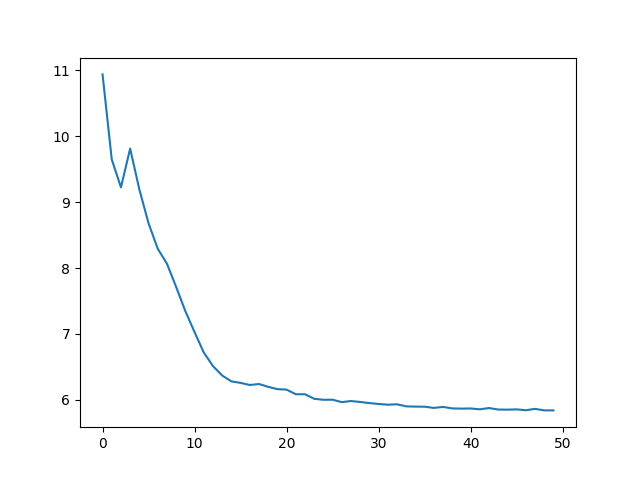
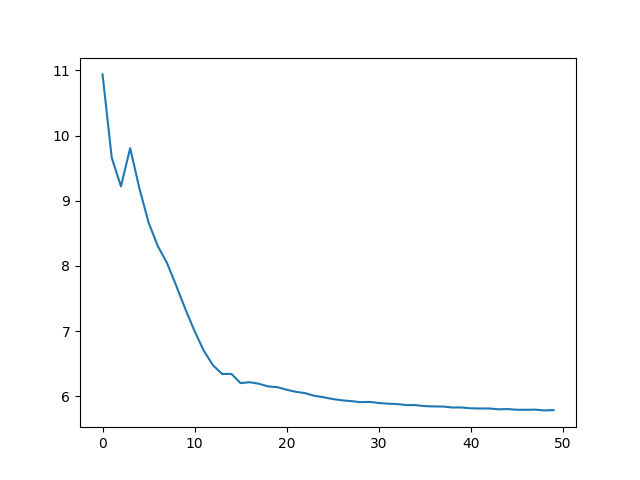
ddp works

diff --git a/train.py b/train.py
@@ -316,9 +316,11 @@ class GPT2(nn.Module):
 
 
 class DataLoaderLite:
-    def __init__(self, B, T):
+    def __init__(self, B, T, process_rank, num_processes):
         self.B = B  # batch size
         self.T = T  # context size
+        self.process_rank = process_rank
+        self.num_processes = num_processes
 
         with open("input.txt", "r") as f:
             text = f.read()
@@ -328,10 +330,11 @@ class DataLoaderLite:
 
         self.tokens = torch.tensor(tokens)
 
-        print(f"loaded {len(self.tokens)} tokens")
-        print(f"1 epoch = {len(self.tokens) // (B * T)} batches")
+        if process_rank == 0:
+          print(f"loaded {len(self.tokens)} tokens")
+          print(f"1 epoch = {len(self.tokens) // (B * T)} batches")
 
-        self.current_position = 0
+        self.current_position = self.B * self.T * self.process_rank
 
     def next_batch(self) -> tuple[torch.Tensor, torch.Tensor]:
         B, T = self.B, self.T
@@ -340,11 +343,11 @@ class DataLoaderLite:
         y = buf[1:].view(B, T)  # Targets
 
         # advance the position in the tensor
-        self.current_position += B * T
+        self.current_position += B * T * self.num_processes
         # if loading the next batch would be out of bounds, reset
-        if self.current_position + (B * T + 1) > len(self.tokens):
+        if self.current_position + (B * T * self.num_processes + 1) > len(self.tokens):
             # print("\n\t!!! Dataset Loop Completed !!!\n")
-            self.current_position = 0
+            self.current_position = self.B * self.T * self.process_rank
 
         assert x.size() == y.size() == (B, T), "Size mismatch"
 
@@ -370,20 +373,43 @@ def get_lr(it: int) -> float:
     return min_lr + coeff * (max_lr - min_lr)
 
 if __name__ == "__main__":
-    # Check if we have a GPU
-    device = "cpu"
-    if torch.cuda.is_available():
-        device = "cuda"
-    elif hasattr(torch.backends, "mps") and torch.backends.mps.is_available():
-        device = "mps"
-    print(f"using device: {device}")
-
-    # from torch.distributed import init_process_group, destroy_process_group
+    # DDP
+    from torch.distributed import init_process_group, destroy_process_group
+    from torch.nn.parallel import DistributedDataParallel as DDP
+    import torch.distributed as dist
 
     # set up DDP (distributed data parallel)
     # torchrun command sets the env variables RANK, LOCAL_RANK, and WORLD_SIZE
-    # ddp = int(os.environ.get('RANK', -1)) != -1 # is this a ddp run?
+    ddp = int(os.environ.get('RANK', -1)) != -1 # is this a ddp run?
     # print(ddp, os.environ.get('RANK'), os.environ.get('LOCAL_RANK'))
+
+    # DDP
+    if ddp:
+      assert torch.cuda.is_available(), "for now we need CUDA for DDP"
+      init_process_group(backend='nccl')
+      ddp_rank = int(os.environ['RANK'])
+      ddp_local_rank = int(os.environ['LOCAL_RANK'])
+      ddp_world_size = int(os.environ['WORLD_SIZE'])
+      device = f"cuda:{ddp_local_rank}"
+      device_type = 'cuda'
+      torch.cuda.set_device(device)
+      master_process = ddp_rank == 0 # this process will do logging, checkpointing
+    else:
+      # vanilla, non-DDP run
+      ddp_rank = 0
+      ddp_local_rank = 0
+      ddp_world_size = 1
+      master_process = True
+      # attempt to autodetect device
+      device = "cpu"
+      if torch.cuda.is_available():
+          device = "cuda"
+      elif hasattr(torch.backends, "mps") and torch.backends.mps.is_available():
+          device = "mps"
+      print(f"using device: {device}")
+      device_type = device
+    
+    print(f"{device=}: {ddp_rank=}, {ddp_world_size=}, {ddp_local_rank=}")
 
     # Set the random seed for reproducibility
     torch.manual_seed(1337)
@@ -393,13 +419,14 @@ if __name__ == "__main__":
     total_batch_size = 524_288 # 2**19, ~0.5M tokens, GPT 2's batch size
     B = 32 # micro batch size (can fit on this GPU)
     T = 1024 # sequence length
-    assert total_batch_size % (B * T) == 0, "make sure total_batch_size is divisible by B*T"
-    grad_accum_steps = total_batch_size // (B * T)
-    print(f"total desired batch size: {total_batch_size}")
-    print(f"=> calculated gradient accumulation steps: {grad_accum_steps}")
+    assert total_batch_size % (B * T * ddp_world_size) == 0, "make sure total_batch_size is divisible by B*T"
+    grad_accum_steps = total_batch_size // (B * T * ddp_world_size)
+    if master_process:
+        print(f"total desired batch size: {total_batch_size}")
+        print(f"=> calculated gradient accumulation steps: {grad_accum_steps}")
 
     # Instantiate the data loader
-    train_loader = DataLoaderLite(B=B, T=T)
+    train_loader = DataLoaderLite(B=B, T=T, process_rank=ddp_rank, num_processes=ddp_world_size)
 
     # SPEED!: Use TF32
     torch.set_float32_matmul_precision("high") # Use TF32 on GPUs which support it
@@ -411,17 +438,22 @@ if __name__ == "__main__":
     # SPEED!: Torch Compile
     model = torch.compile(model)
 
+    if ddp: # DDP
+        model = DDP(model, device_ids=[ddp_local_rank])
+    raw_model = model.module if ddp else model
+
     # Training
     losses = []
     avg_losses = []
     # moving_window_length = 200
 
-    print(f"Training for {max_steps} steps")
+    if master_process:
+        print(f"Training for {max_steps} steps")
 
     # optimizer = torch.optim.AdamW(model.parameters(), lr=3e-4)
     # optimizer = torch.optim.AdamW(model.parameters(), lr=3e-4, betas=(0.9, 0.95), eps=1e-8) # IMPROVEMENTS: Match hyperperameters to GPT3 paper details
     # IMPROVEMENTS: refactor optimizer into the model
-    optimizer = model.configure_optimizer(weight_decay=0.1, learning_rate=6e-4, device=device)
+    optimizer = raw_model.configure_optimizer(weight_decay=0.1, learning_rate=6e-4, device=device)
 
     for step in range(max_steps):
         t0 = time.time()
@@ -432,14 +464,18 @@ if __name__ == "__main__":
             x, y = x.to(device), y.to(device)
 
             # SPEED!: autocast to bfloat16
-            with torch.autocast(device_type=device, dtype=torch.bfloat16):
-              logits, loss = model(x, y)
+            with torch.autocast(device_type=device_type, dtype=torch.bfloat16):
+                logits, loss = model(x, y)
               # import code; code.interact(locals=locals())
             # logits, loss = model(x, y) # Baseline
 
             loss = loss / grad_accum_steps # For gradient accumulation
             loss_accum += loss.detach()
+            if ddp:
+                model.require_backward_grad_sync = (microstep == grad_accum_steps - 1)
             loss.backward()
+        if ddp:
+            dist.all_reduce(loss_accum, op=dist.ReduceOp.AVG)
         norm = torch.nn.utils.clip_grad_norm_(model.parameters(), 1.0) # IMPROVEMENTS!: Normalize Gradients using norm of gradients
 
         # IMPROVEMENTS!: Cosine LR Scheduling
@@ -453,8 +489,9 @@ if __name__ == "__main__":
 
         t1 = time.time()
         dt = (t1 - t0) * 1000 # milliseconds
-        tps = (train_loader.B * train_loader.T * grad_accum_steps) / (t1 - t0)
-        print(f"step {step} | loss: {loss_accum.item():.6f} | lr: {lr:.4e} | norm: {norm:.4f} | dt = {dt} | tokens/sec: {tps}")
+        tps = (train_loader.B * train_loader.T * grad_accum_steps * ddp_world_size) / (t1 - t0)
+        if master_process:
+            print(f"step {step} | loss: {loss_accum.item():.6f} | lr: {lr:.4e} | norm: {norm:.4f} | dt = {dt:.2f} | tokens/sec: {tps:.0f}")
 
         losses.append(loss_accum.item())
 
@@ -475,9 +512,10 @@ if __name__ == "__main__":
     # plt.plot(avg_losses)
     plt.savefig("loss.png")
 
-    import sys
+    if ddp:
+        destroy_process_group()
 
-    sys.exit(0)
+    import sys; sys.exit(0)
 
     # while x.size(1) < max_length:
     #     with torch.no_grad():
